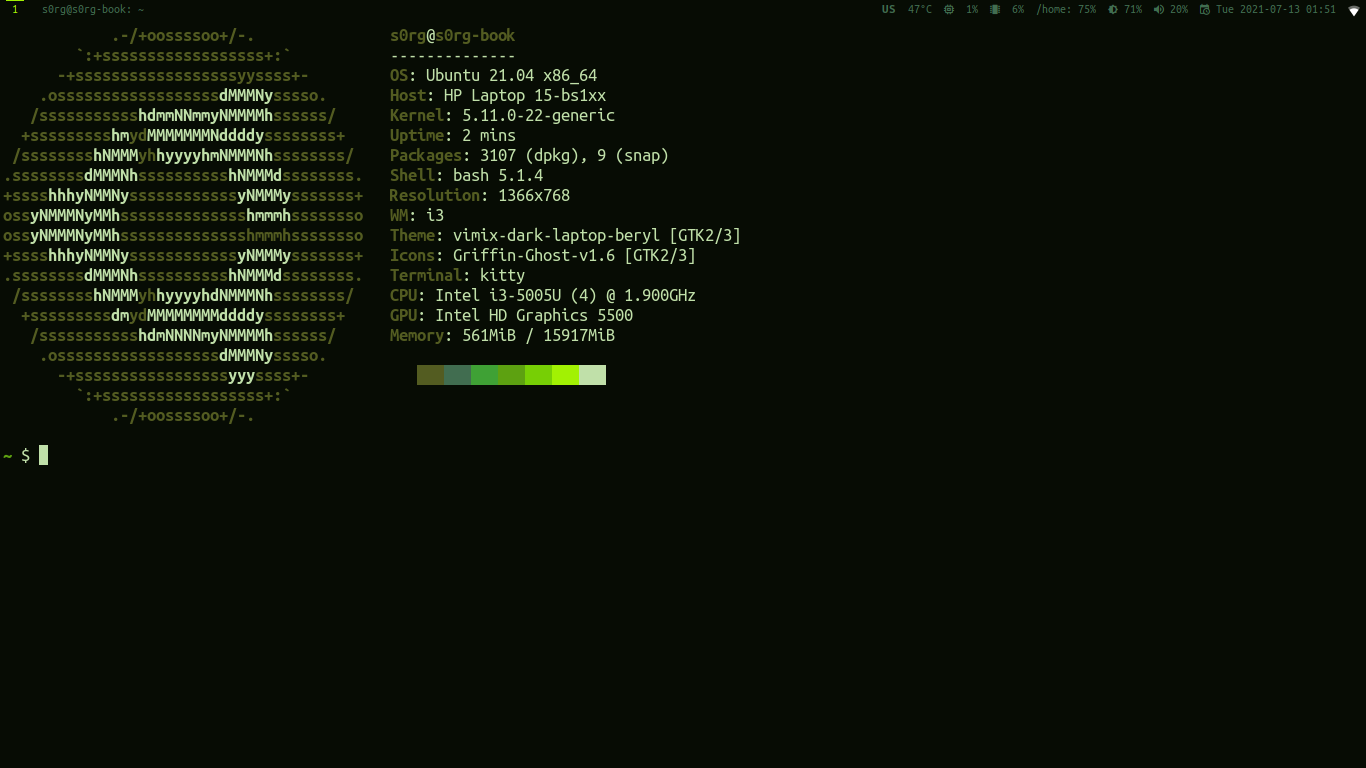
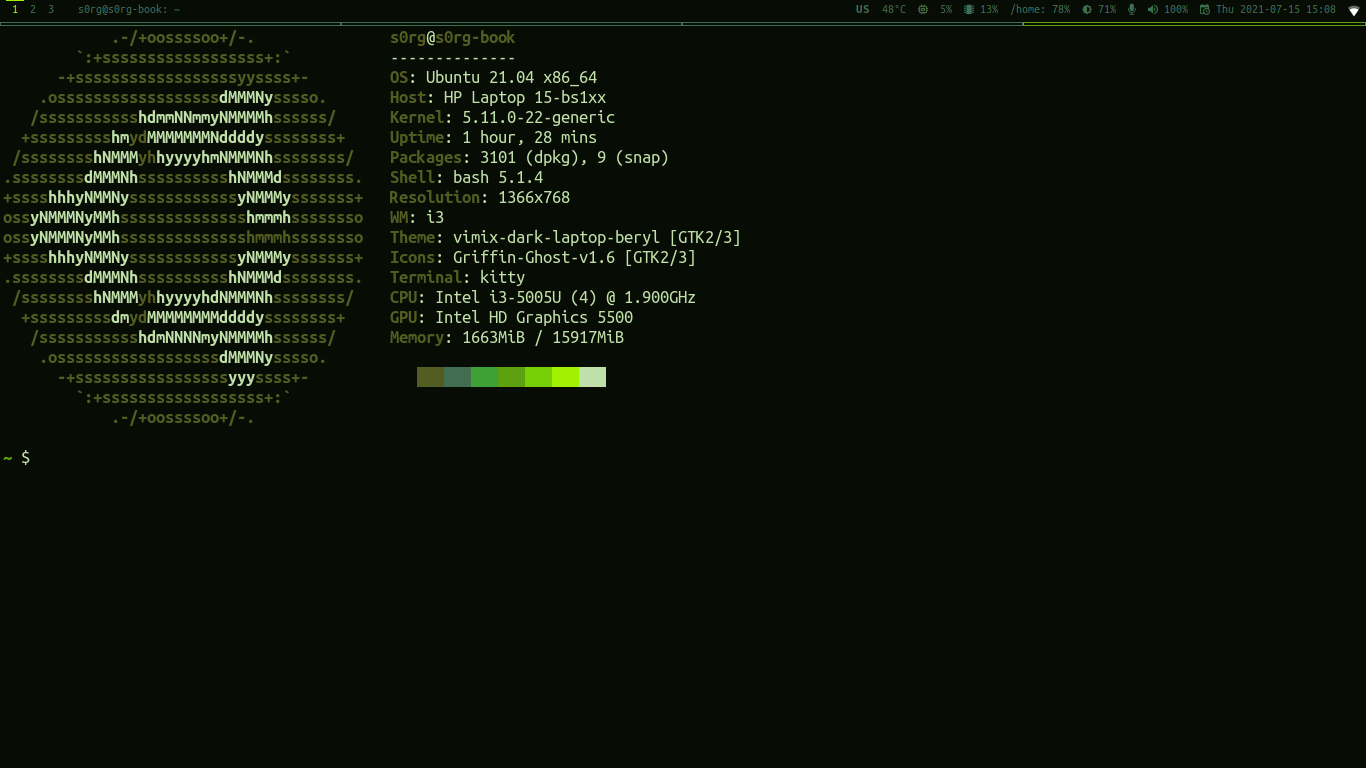
README grouming + new screenshot

diff --git a/README.md b/README.md
@@ -1,10 +1,10 @@
 # dotfiles
-My dotfiles
 
 This repo is managed via [this](https://www.atlassian.com/git/tutorials/dotfiles) method
 
 # software
 
+- os: any debian-based linux distro
 - wm: [i3](https://i3wm.org/)
 - editor: [vim](https://www.vim.org/)
 - shell: [bash](https://www.gnu.org/software/bash/)
@@ -16,17 +16,21 @@ This repo is managed via [this](https://www.atlassian.com/git/tutorials/dotfiles
 - notifications: [dunst](https://dunst-project.org/)
 - theme generation: [pywal](https://github.com/dylanaraps/pywal)
 - media auto-mount: [udiskie](https://github.com/coldfix/udiskie)
-- font: [ubuntu mono nerd font](https://www.nerdfonts.com/)
 
-# helpers
+## look & feel
+
+- icons: [Griffin-Ghost](https://store.kde.org/p/1227736/)
+- fonts: [ubuntu mono nerd font](https://www.nerdfonts.com/)
+
+## helpers
 
 - http cli: [httpie](https://httpie.io/)
 - sql client: [usql](https://github.com/xo/usql)
-- faster `grep`: [ripgrep](https://github.com/BurntSushi/ripgrep)
 - fuzzy finder: [fzf](https://github.com/junegunn/fzf)
-- eye-candy `ls`: [exa](https://the.exa.website/)
+- faster `grep`: [ripgrep](https://github.com/BurntSushi/ripgrep)
 - colored `cat`: [bat](https://github.com/sharkdp/bat)
-- `git-diff` replacement: [delta](https://github.com/dandavison/delta)
+- eye-candy `ls`: [exa](https://the.exa.website/)
+- better `git-diff`: [delta](https://github.com/dandavison/delta)
 
 # example screenshot
 ![screenshot](https://github.com/s0rg/dotfiles/blob/master/.config/i3/screenshot.png)
